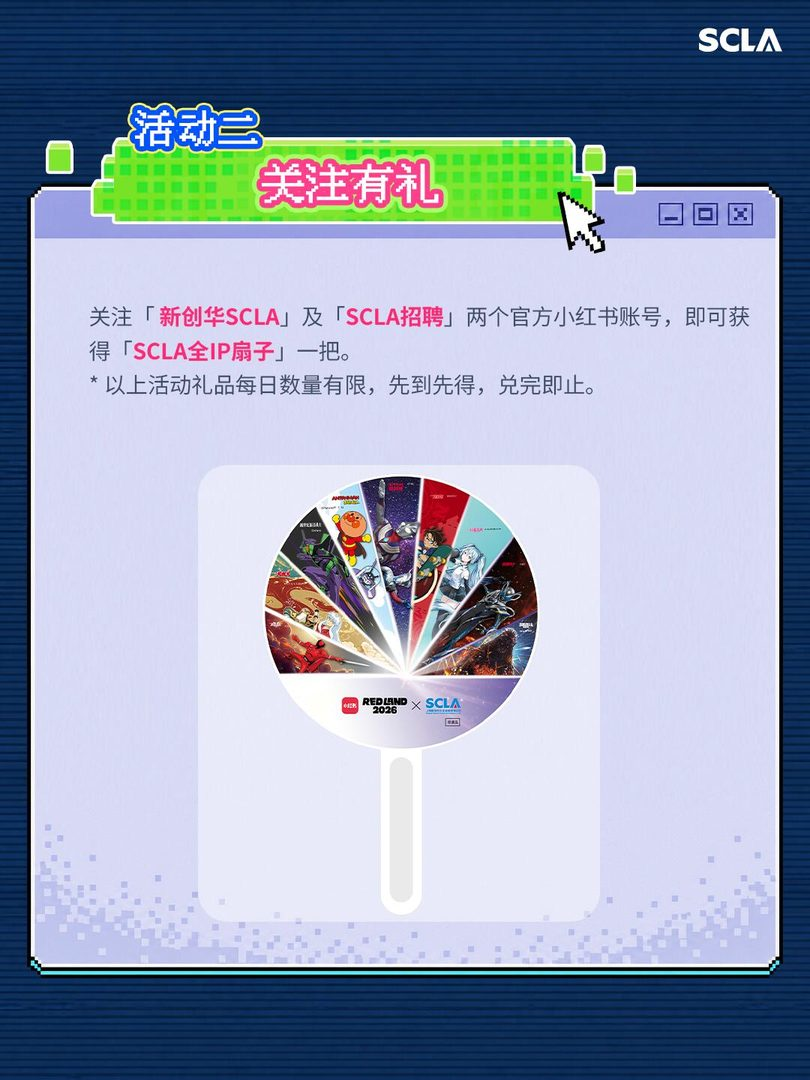
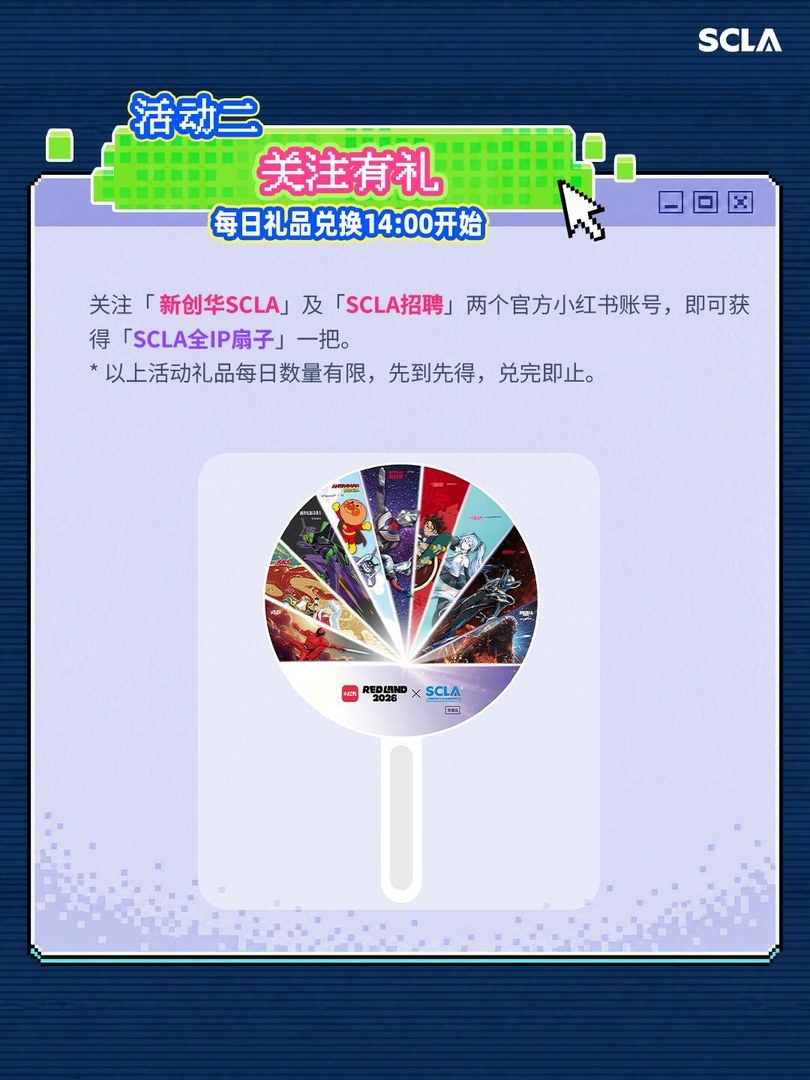
data: 全量复核已收录来源（70 条笔记 + 17 个 ditto 页），同步 7 处官方改动；修两处渲染成 JSON 的奖励；重抠 B09 两枚徽章
复核结果（临时脚本跑完已删，方法记在 docs 13.19）：
- 官方场馆平面图换了 fileId，逐像素比对内容一致，但新版只有 3460×1406（原 14412×5854）。
  本地高清切片与展位热区继续沿用旧版，不按新 fileId 重抓；变更记进 note.json.fileIdHistory
- A24 SCLA 家族 8 条同步换图：活动一 / 活动二都加了「每日礼品兑换 14:00 开始」，
  PIN 更名「小红书PIN徽章（存档碎片）」。重下 02/03.jpg，boothDetails 与 pins.js 同步
- A17c 命运扳机换图：05 号 COSER 角色名 狼人 → 獠隐（五天的 schedule 都改了）
- B15 逆水寒标题改「【已开奖】」，正文追加中奖名单（内容无变化，只改 source.title）
- 宝可梦专题页「2 活动一览」9/15 内容上线（1 → 39 张）、「3 夜场惊喜」9/16 更新（1 → 7 张）：
  新增拍拍挑战、满电直播中、官方旗舰店「水波相伴」、伊布大转盘规则四项并入 B02；
  长图存 list-00～03 / list-passport / list-peiyi / night-01
- 其余 63 条笔记、主会场页（仍是 9/9 17:31）、阅文 hub 与 6 子页、猛兽派对、独立游戏页均无变化

顺带修的：
- B09「问答互动」与 C17「集齐 3 枚印章兑换」的任务级 rewards 里混了对象，页面直接吐出
  一串 JSON；改成纯字符串（PIN 预览本来就挂顶层 rewards）。CLAUDE.md 补了这条口径
- 奖励行挂多枚 PIN 时标签显示「PIN ×2」，否则看不出灯箱里还有第二张
- B09 两枚徽章缩略图重抠：原框把日场款底边、夜场款左半边都切残了

diff --git a/src/data/boothDetails.js b/src/data/boothDetails.js
@@ -30,7 +30,7 @@ const pokemon = {
   notes: ['更多活动信息即将发布，敬请期待', '图片系设计效果图，仅供参考，具体请以实物为准', '现场活动信息可能会根据当天实际情况进行调整（见面会 / 巡游 / 舞台表演，9/13）', '主会场三项 DIY 均为免费现场体验，只提供固定款式材料包，每人每次限领 1 份，需在现场完成制作后方可离场；图片仅示意，实际效果以现场自行设计为准（9/12）'],
   moreSources: [
     { title: 'RED LAND2026宝可梦卡牌体验营即将开启！', url: 'https://xhslink.cn/o/15EiQMofcoq', noteId: '6aa2a25d0000000026020f51', author: 'Pokemon宝可梦', publishedAt: '2026-09-11' },
-    { title: '江畔乐游 宝可梦嘉年华！（官方专题页 · 活动好礼 / 活动一览 / 夜场惊喜 / 卡牌体验 / 主题快闪）', url: 'https://xhslink.com/m/8KSTEt4IXBa', noteId: '8b6481cf722741b59bd6dd25fd17d97a', author: 'RED LAND 官方', publishedAt: '2026-09-14' },
+    { title: '江畔乐游 宝可梦嘉年华！（官方专题页 · 活动好礼 / 活动一览 / 夜场惊喜 / 卡牌体验 / 主题快闪；「活动一览」9/15 内容上线、「夜场惊喜」9/16 更新）', url: 'https://xhslink.com/m/8KSTEt4IXBa', noteId: '8b6481cf722741b59bd6dd25fd17d97a', author: 'RED LAND 官方', publishedAt: '2026-09-16' },
     { title: '活力投篮🏀 谁是球场MVP？！', url: 'https://xhslink.cn/o/2WZlpoGPXTp', noteId: '6aa3d88b000000002802b26e', author: 'Pokemon宝可梦', publishedAt: '2026-09-15' },
     { title: '江畔乐游宝可梦嘉年华 主会场活动信息', url: 'https://xhslink.cn/o/2hUNxogcGQ5', noteId: '6aa3d27a0000000028029d03', author: 'Pokemon宝可梦', publishedAt: '2026-09-12' },
     { title: '江畔乐游宝可梦嘉年华 宝可梦见面会来啦！', url: 'https://xhslink.cn/o/12wrkaeZLvX', noteId: '6aa3ba1b000000002b0013be', author: 'Pokemon宝可梦', publishedAt: '2026-09-13' },
@@ -39,7 +39,13 @@ const pokemon = {
   activities: [
     {
       title: '「皮」「伊」欢聚站（B-02）',
-      desc: '拍照打卡点，站内设集章处，可领护照、盖伊布印章、领冰箱贴。',
+      desc: '「精灵球」转转转，解锁伊布「们」的贴纸！巨型皮卡丘与伊布坐镇的拍照打卡点，站内设集章处，可领护照、盖伊布印章、领冰箱贴。',
+      items: [
+        {
+          title: '伊布「们」大转盘',
+          desc: '现场排队参与伊布「们」大转盘活动，根据转盘结果可获得对应款式的贴纸 1 张。贴纸共 9 款，每款 200 张，每人每次限领 1 张，先到先得，赠完即止。若转动结果的对应款式贴纸已赠完，则可以重新转动 1 次。',
+        },
+      ],
     },
     {
       title: '江畔乐游 宝可梦嘉年华 主会场（B-17）',
@@ -63,6 +69,16 @@ const pokemon = {
           desc: '现场提供宝可梦转转风车材料包，参考制作步骤说明，完成拼装。日场、夜场共 5 款，每款每日各 900 份，赠完即止，先到先得。日场款发放 12:30 – 17:30（小磁怪 / 正电拍拍 & 负电拍拍 / 皮卡丘），夜场款发放 17:30 – 21:00（耿鬼 / 谜拟丘，夜光效果请以实物为准）。',
         },
       ],
+    },
+    {
+      title: '拍拍挑战 · 欢乐羽毛球挥拍挑战（B-17 主会场）',
+      desc: '欢乐羽毛球挥拍挑战，等你来「拍拍」！正电拍拍与负电拍拍气模坐镇，快来同框打卡。',
+      items: [
+        { title: '参与挑战即可获得', desc: '宝可梦江畔乐游主题纸帽 · 正电拍拍 & 负电拍拍款。每日 5000 个，赠完即止，先到先得。' },
+        { title: '挑战成功即可获得', desc: '宝可梦江畔乐游主题贴纸 · 正电拍拍 & 负电拍拍款。每日 4000 张，赠完即止，先到先得。' },
+      ],
+      note: '更多游玩规则请参考活动现场公告；参与本项目可盖小磁怪印章（乐游护照任务 2），每日 17:30 后还可加盖谜拟丘印章（任务 6）',
+      rewards: ['宝可梦江畔乐游主题纸帽 · 正电拍拍 & 负电拍拍款', '宝可梦江畔乐游主题贴纸 · 正电拍拍 & 负电拍拍款'],
     },
     {
       title: '活力投篮 · 谁是球场 MVP？！（B-17 主会场）',
@@ -120,6 +136,22 @@ const pokemon = {
       desc:
         '发现宝可梦商品的奇趣之处。快闪店以小磁怪 / 三合一磁怪为主视觉，Pokémon ROAD TRIP 系列第三弹及更多商品请期待。在店内任意购买商品，按消费时间可获得「宝可梦江畔乐游」气球 1 个：皮卡丘款 12:30 ~ 17:30（每日 700 个）、谜拟丘款 17:30 ~ 21:00（每日 300 个），赠完即止，先到先得。',
       note: '展位号官方未公布，待补充；图片系设计效果图，具体以实物为准',
+    },
+    {
+      title: '满电直播中 · 宝可梦卡牌官方直播间（B-17 主会场）',
+      desc: '宝可梦卡牌官方主播正在满电直播中！来现场直播间和官方主播欢乐互动吧——既能和官方主播一起玩游戏，也能自由打卡拍照。如果你有志成为官方主播，还可以现场投递简历、接受面试！关注宝可梦官方社媒账号，即可领取「满电直播中」主题透卡。',
+      note: '主题透卡共 2 款（皮卡丘 / 谜拟丘），每款每日各 1000 张，每人每日限领 1 张、款式随机；更多游玩规则请参考活动现场公告',
+      rewards: ['「满电直播中」主题透卡 ×1（2 款随机）'],
+    },
+    {
+      title: '宝可梦官方旗舰店打卡点 ·「水波相伴」（B-17 主会场）',
+      desc: '全新宝可梦「水波相伴」系列商品提前亮相！10 月 2 日 – 10 月 6 日，现场参与游戏或在官方直播间下单，有机会获得水波相伴主题赠品。',
+      items: [
+        { title: '水波相伴主题水敏卡', desc: '在小红书宝可梦官方直播间下单满足条件即可获得，共 6000 张，先到先得，赠完即止。' },
+        { title: '水波相伴主题手环', desc: '现场参与游戏即可获得，共 2 款（波加曼 / 水水獭），每日每款 600 份，先到先得，赠完即止。' },
+      ],
+      note: '更多游玩规则请参考活动现场公告及官方后续发布信息',
+      rewards: ['水波相伴主题水敏卡', '水波相伴主题手环（2 款）'],
     },
     {
       title: '宝可梦卡牌体验营（C-16）',
@@ -300,6 +332,12 @@ const pokemon = {
     { name: '集装可爱 · 集装箱装饰材料包', how: 'B-17 主会场 DIY 区免费领取；日场款 12:30–17:30 / 夜场款 17:30–21:00，每款每日各 800 份，需自带宝可梦官方毛绒挂件' },
     { name: '彩影箱灯材料包', how: 'B-17 主会场 DIY 区免费领取；每日 3000 份，夜间可开灯发光' },
     { name: '转转风车材料包', how: 'B-17 主会场 DIY 区免费领取；日场 3 款 12:30–17:30 / 夜场 2 款 17:30–21:00，每款每日各 900 份' },
+    { name: '宝可梦江畔乐游主题纸帽 · 正电拍拍 & 负电拍拍款', how: 'B-17 拍拍挑战，参与挑战即得；每日 5000 个' },
+    { name: '宝可梦江畔乐游主题贴纸 · 正电拍拍 & 负电拍拍款', how: 'B-17 拍拍挑战，挑战成功即得；每日 4000 张' },
+    { name: '伊布「们」大转盘贴纸（9 款）', how: 'B-02「皮」「伊」欢聚站排队转大转盘，按结果领对应款式；每款 200 张，每人每次限领 1 张，转到已赠完的款式可重转 1 次' },
+    { name: '「满电直播中」主题透卡（2 款随机）', how: 'B-17 宝可梦卡牌官方直播间，关注宝可梦官方社媒账号领取；每款每日 1000 张，每人每日限领 1 张' },
+    { name: '水波相伴主题水敏卡', how: '在小红书宝可梦官方直播间下单满足条件即可获得；共 6000 张' },
+    { name: '水波相伴主题手环（2 款）', how: 'B-17 宝可梦官方旗舰店打卡点，现场参与游戏即得；每日每款 600 份' },
   ],
   footnote: '所有周边先到先得，赠完即止；图片系设计效果图，具体以实物为准。',
   images: [
@@ -316,6 +354,13 @@ const pokemon = {
     { src: 'img/booths/B02/diy-01.jpg', caption: '集装可爱 · 日场 / 夜场 2 款与注意事项' },
     { src: 'img/booths/B02/diy-02.jpg', caption: '彩影箱灯 · 每日 3000 份，夜间可发光' },
     { src: 'img/booths/B02/diy-03.jpg', caption: '转转风车 · 日场 3 款 / 夜场 2 款' },
+    { src: 'img/booths/B02/list-00.jpg', caption: '官方专题页「活动一览」① 嘉年华主会场 / 宝可梦见面会 / 拍拍挑战 / 活力投篮（9/15 上线）' },
+    { src: 'img/booths/B02/list-01.jpg', caption: '官方专题页「活动一览」② 蹭蹭脸颊 / 手工 DIY 三项（集装可爱 · 转转风车 · 彩影箱灯）' },
+    { src: 'img/booths/B02/list-02.jpg', caption: '官方专题页「活动一览」③ 满电直播中 / 官方旗舰店「水波相伴」/ 绘梦工坊 / 纸间奇遇 / 主题快闪' },
+    { src: 'img/booths/B02/list-03.jpg', caption: '官方专题页「活动一览」④ 主题快闪气球与贴纸数量' },
+    { src: 'img/booths/B02/list-passport.jpg', caption: '官方专题页「活动好礼」· 江畔乐游护照集章全流程（Step1–3）' },
+    { src: 'img/booths/B02/list-peiyi.jpg', caption: '官方专题页 ·「皮」「伊」欢聚站与伊布「们」大转盘（9 款贴纸）' },
+    { src: 'img/booths/B02/night-01.jpg', caption: '官方专题页「夜场惊喜」· 夜光周边一览（9/16 更新）' },
     { src: 'img/booths/B02/meet-00.jpg', caption: '宝可梦见面会（Pokemon宝可梦 9/13）' },
     { src: 'img/booths/B02/meet-01.jpg', caption: '宝可梦见面会 · 日场 / 夜场时间与亮相宝可梦' },
     { src: 'img/booths/B02/meet-02.jpg', caption: '宝可梦特别见面会 · 路卡利欧' },
@@ -1051,15 +1096,16 @@ const scla = {
         },
         { no: 'STEP 4', desc: '前往礼品兑换处找 STAFF 核验，获取当日的抽奖机会及礼品。' },
       ],
-      note: '各 IP 任务来自其官方号 9/10–9/11 分攻略，均注明「现场也会有随机惊喜掉落」。',
+      note: '每日礼品兑换 14:00 开始（官方 9/19 换图新增）。各 IP 任务来自其官方号 9/10–9/11 分攻略，均注明「现场也会有随机惊喜掉落」。',
       rewards: [
         '完成 1 条连线 = 1 次抽奖机会，可获得中奖 IP 对应的「亚克力冰箱贴」（9 款对应 9 大 IP），每人每日最多可拥有 3 次抽奖机会',
-        '完成 2 条及以上数量连线，即可获得「小红书 PIN 徽章」，每人每日限领 1 枚',
+        '完成 2 条及以上数量连线，即可获得「小红书 PIN 徽章（存档碎片）」，每人每日限领 1 枚',
       ],
     },
     {
       title: '活动二 · 关注有礼',
       desc: '关注「新创华SCLA」及「SCLA招聘」两个官方小红书账号，即可获得「SCLA 全 IP 扇子」一把。',
+      note: '每日礼品兑换 14:00 开始；以上活动礼品每日数量有限，先到先得，兑完即止（官方 9/19 换图新增时间）。',
       follow: [
         { uid: '5c73e184000000001000fa72', name: '新创华SCLA' },
         { uid: '69cf57f60000000033020c71', name: 'SCLA招聘' },
@@ -1068,7 +1114,7 @@ const scla = {
     },
   ],
   rewards: [
-    { name: '小红书 PIN 徽章（2 款）', how: 'BINGO 完成 2 条及以上连线；每人每日限领 1 枚。橙色软盘造型，一款集合假面骑士 / 奥特曼 / 哥斯拉 / 超级战队，另一款集合犬夜叉 / 初音未来 / EVA / 面包超人 / 柯南', pin: true, pinIds: ['A24-pin-1', 'A24-pin-2'] },
+    { name: '小红书 PIN 徽章（存档碎片，2 款）', how: 'BINGO 完成 2 条及以上连线；每日礼品兑换 14:00 开始，每人每日限领 1 枚。橙色软盘造型，一款集合假面骑士 / 奥特曼 / 哥斯拉 / 超级战队，另一款集合犬夜叉 / 初音未来 / EVA / 面包超人 / 柯南', pin: true, pinIds: ['A24-pin-1', 'A24-pin-2'] },
     { name: '亚克力冰箱贴（9 款，按中奖 IP 随机）', how: 'BINGO 每完成 1 条连线抽奖 1 次，100% 中奖；每人每日最多 3 次' },
     { name: 'SCLA 全 IP 扇子', how: '关注「新创华SCLA」与「SCLA招聘」两个官方账号后领取' },
     { name: '限量神秘礼品（名侦探柯南）', how: '在柯南展区找到藏在书房里的神秘数字' },
@@ -1217,10 +1263,7 @@ const reverse1999 = {
       title: '问答互动',
       desc: '在展会完成互动问答后即可领取《重返未来：1999》徽章 ×1，并参与现场抽奖活动。徽章分为日场和夜场两款，日场款领取时间为每日 12:30 – 17:30，夜场款领取时间为每日 17:30 – 21:30。',
       note: '奖品每日限量 1200 份，其中日场款 800 份、夜场款 400 份；先到先得，领完即止。部分抽奖奖品由小米游戏中心提供',
-      rewards: [
-        { name: '《重返未来：1999》徽章 ×1（日场款 / 夜场款）', pin: true, pinIds: ['B09-1', 'B09-2'] },
-        '现场抽奖资格',
-      ],
+      rewards: ['《重返未来：1999》徽章 ×1（日场款 / 夜场款）', '现场抽奖资格'],
     },
   ],
   rewards: [
@@ -1317,7 +1360,7 @@ const opcg = {
       desc: 'SNS 打卡、策牌破局、互动游戏各盖 1 枚印章，集齐 3 枚后扫码填写调查问卷并下载万代卡牌 APP，即可兑换现场奖品与店铺奖品。',
       rewards: [
         'RED LAND 2026「奈美」帆布袋 ×1 个',
-        { name: 'RED LAND 2026 限定徽章 ×1 枚', pin: true, pinId: 'C17-pin' },
+        'RED LAND 2026 限定徽章 ×1 枚',
         '到店兑换店铺奖品 ×1 份（限量 200 份）',
       ],
     },
@@ -2151,7 +2194,7 @@ const fateTrigger = {
             '名濑 · 汐尔sama',
             '绮罗 · 二二二月',
             '明迪 · 企有小鹅',
-            '狼人 · 是己不是已',
+            '獠隐 · 是己不是已',
           ],
         },
         {
@@ -2161,7 +2204,7 @@ const fateTrigger = {
             '名濑 · 汐尔sama',
             '绮罗 · 二二二月',
             '明迪 · 企有小鹅',
-            '狼人 · 是己不是已',
+            '獠隐 · 是己不是已',
           ],
         },
         {
@@ -2169,7 +2212,7 @@ const fateTrigger = {
           guests: [
             '赫希黎 / 绮罗 / 名濑 · 蕾诺诺（头号花车）',
             '明迪 · 企有小鹅',
-            '狼人 · 是己不是已',
+            '獠隐 · 是己不是已',
             '赫希黎 · 幺鸡',
             '名濑 · 狩司',
           ],
@@ -2179,7 +2222,7 @@ const fateTrigger = {
           guests: [
             '赫希黎 / 绮罗 / 名濑 · 蕾诺诺（头号花车）',
             '明迪 · 企有小鹅',
-            '狼人 · 是己不是已',
+            '獠隐 · 是己不是已',
             '赫希黎 · 幺鸡',
             '绮罗 · 小猫',
           ],
@@ -2189,7 +2232,7 @@ const fateTrigger = {
           guests: [
             '赫希黎 / 绮罗 / 名濑 · 蕾诺诺（头号花车）',
             '明迪 · 企有小鹅',
-            '狼人 · 是己不是已',
+            '獠隐 · 是己不是已',
             '名濑 · 狩司',
             '绮罗 · 小猫',
           ],
@@ -2238,11 +2281,11 @@ const fateTrigger = {
 }
 
 // 逆水寒（B-15，黄金海岸线）：星梦乐园 —— 互动打卡 / 日间寻礼 / 夜场互动 / 侠友同游 / 星梦舞会 / 花车巡礼
-// 笔记标题带「内含门票」：评论区抽 REDLAND 门票与 10/2 - 10/29 线上投稿征集均属票务 / 线上活动，未收录
+// 原标题带「内含门票」，官方 9/19 抽奖结束后改成「【已开奖】…」并在正文追加中奖名单；评论区抽 REDLAND 门票与 10/2 - 10/29 线上投稿征集均属票务 / 线上活动，未收录
 // 原图 11 张，去掉「线上征集」与「登岛指引」（首页交通要点已有），取舍见 note.json
 const nishuihanBooth = {
   source: {
-    title: '【内含门票】滴滴，您有一份登岛邀请请查收（仅收录 RED LAND 参展情报部分）',
+    title: '【已开奖】滴滴，您有一份登岛邀请请查收（仅收录 RED LAND 参展情报部分）',
     url: 'https://xhslink.cn/o/32b4sTIG4RJ',
     noteId: '6aa8e678000000000d027c19',
     author: '逆水寒',

diff --git a/src/data/pins.js b/src/data/pins.js
@@ -26,8 +26,8 @@ export const pins = [
   { id: 'A38-pin', no: 'A38', type: 'region', zone: 'A', name: '剑网3 展台专属 PIN 卡（黄鸡大笑）', booth: 'A38', how: '展台【江湖笔记】留言寄语，每日限量先到先得', thumb: 'img/pins/A38.jpg', image: 'img/booths/A38/02.jpg' },
   { id: 'A34-pin-2', no: 'A34-2', type: 'region', zone: 'A', name: '我的世界联名徽章 · LOGO 款', booth: 'A34', how: '现场互动打卡', thumb: 'img/pins/A34-2.jpg', image: 'img/booths/A34/01.jpg' },
   { id: 'A17c-pin', no: 'A17c', type: 'region', zone: 'A', name: '命运扳机「存档碎片」PIN 套装', booth: 'A17c', how: '预约游戏并关注命运扳机小红书账号；套装含「外包装 + 三 IP 合一内卡」成品一件，另附《命运扳机》单款内卡', thumb: 'img/pins/A17c.jpg', image: 'img/booths/A17c/02.jpg' },
-  { id: 'A24-pin-1', no: 'A24-1', type: 'region', zone: 'A', name: 'SCLA 小红书 PIN 徽章 · 假面骑士 / 奥特曼 / 哥斯拉 / 超级战队款', booth: 'A24', how: 'BINGO 完成 2 条及以上连线，每人每日限领 1 枚', thumb: 'img/pins/A24-1.jpg', image: 'img/booths/A24/02.jpg' },
-  { id: 'A24-pin-2', no: 'A24-2', type: 'region', zone: 'A', name: 'SCLA 小红书 PIN 徽章 · 犬夜叉 / 初音未来 / EVA / 面包超人 / 柯南款', booth: 'A24', how: 'BINGO 完成 2 条及以上连线，每人每日限领 1 枚', thumb: 'img/pins/A24-2.jpg', image: 'img/booths/A24/02.jpg' },
+  { id: 'A24-pin-1', no: 'A24-1', type: 'region', zone: 'A', name: 'SCLA 小红书 PIN 徽章（存档碎片）· 假面骑士 / 奥特曼 / 哥斯拉 / 超级战队款', booth: 'A24', how: 'BINGO 完成 2 条及以上连线；每日礼品兑换 14:00 开始，每人每日限领 1 枚', thumb: 'img/pins/A24-1.jpg', image: 'img/booths/A24/02.jpg' },
+  { id: 'A24-pin-2', no: 'A24-2', type: 'region', zone: 'A', name: 'SCLA 小红书 PIN 徽章（存档碎片）· 犬夜叉 / 初音未来 / EVA / 面包超人 / 柯南款', booth: 'A24', how: 'BINGO 完成 2 条及以上连线；每日礼品兑换 14:00 开始，每人每日限领 1 枚', thumb: 'img/pins/A24-2.jpg', image: 'img/booths/A24/02.jpg' },
   { id: 'B01-pin', no: 'B01', type: 'region', zone: 'B', name: '蛋仔派对 小红书 PIN（样式待公布）', booth: 'B01', how: 'Step1 完成原胚生产 / 表情写入 / 外观装配三个车间认证，与基础周边一同发放（官方 9/15 改版，原先挂在拍照发帖上）', thumb: null, image: 'img/booths/B01/16.jpg' },
   { id: 'B04b-1', no: 'B04b-1', type: 'region', zone: 'B', name: '暴雪游戏 REDLAND 2026「存档碎片」· RED LAND × BLIZZARD × 網易 款', booth: 'B04b', how: '集齐全部展位印章后在暴雪游戏展台领取', thumb: 'img/pins/B04b-1.jpg', image: 'img/booths/B04b/guide-04.jpg' },
   { id: 'B04b-2', no: 'B04b-2', type: 'region', zone: 'B', name: '暴雪游戏 REDLAND 2026「存档碎片」· BLIZZARD 蓝面款', booth: 'B04b', how: '集齐全部展位印章后在暴雪游戏展台领取', thumb: 'img/pins/B04b-2.jpg', image: 'img/booths/B04b/guide-04.jpg' },

diff --git a/src/data/parade.js b/src/data/parade.js
@@ -172,7 +172,7 @@ export const themeFloats = [
       { day: 5, label: '闪耀新世界，花车时尚大秀开幕 · 不落幕的圆舞曲', chars: ['梅莉', '小溪Liz'] },
     ],
     // 嘉宾名单的出处（进页尾来源卡）
-    extraSource: { title: '【内含门票】滴滴，您有一份登岛邀请请查收（花车巡游嘉宾按日名单）', url: 'https://xhslink.cn/o/32b4sTIG4RJ', noteId: '6aa8e678000000000d027c19', author: '逆水寒', publishedAt: '2026-09-15' },
+    extraSource: { title: '【已开奖】滴滴，您有一份登岛邀请请查收（花车巡游嘉宾按日名单）', url: 'https://xhslink.cn/o/32b4sTIG4RJ', noteId: '6aa8e678000000000d027c19', author: '逆水寒', publishedAt: '2026-09-15' },
     source: floatSrc('前方高能！逆水寒专属花车准备发车！', 'https://xhslink.cn/o/W41HoYtgoG', '6a9b1099000000002803bdb0'),
   },
   {

diff --git a/src/views/BoothDetailPage.vue b/src/views/BoothDetailPage.vue
@@ -207,7 +207,7 @@
           <div v-for="r in detail.rewards" :key="r.name" class="row between small" style="padding:6px 0;border-top:1.5px dashed #eadfc4">
             <span>
               <b>{{ r.name }}</b>
-              <button v-if="r.pin && pinsFor(r).length" class="tag text btn" style="font-size:10px;padding:1px 5px;margin-left:4px" @click="showPins(r)">PIN</button>
+              <button v-if="r.pin && pinsFor(r).length" class="tag text btn" style="font-size:10px;padding:1px 5px;margin-left:4px" @click="showPins(r)">PIN<template v-if="pinsFor(r).length > 1"> ×{{ pinsFor(r).length }}</template></button>
               <span v-else-if="r.pin" class="tag text" style="font-size:10px;padding:1px 5px;margin-left:4px">PIN</span>
             </span>
             <span class="muted" style="text-align:right;flex:0 0 45%">{{ r.how }}</span>

diff --git a/scripts/crop-pins.py b/scripts/crop-pins.py
@@ -26,9 +26,10 @@ CROPS = {
     # id: (源图, (left, top, right, bottom))
     'A06': ('public/img/booths/A06/07.jpg', (555, 850, 665, 970), {'upscale': True}),
     'A09-1': ('public/img/booths/A09/01.jpg', (125, 730, 398, 1008)),
-    # B09 两枚徽章在图里只有 ~110px，且夜场款被日场款压住左半边，只能抠可见部分
-    'B09-1': ('public/img/booths/B09/05.jpg', (94, 381, 210, 492), {'fileId': 'spectrum/1040g34o3253i1j3m30b05obic3kgkjin8ofehvo', 'upscale': True}),
-    'B09-2': ('public/img/booths/B09/05.jpg', (182, 462, 290, 557), {'fileId': 'spectrum/1040g34o3253i1j3m30b05obic3kgkjin8ofehvo', 'upscale': True}),
+    # B09 两枚徽章在图里只有 ~110px：日场款右下角被夜场款压住、底边被「日场款」红标压住，只取到红标上沿；
+    # 夜场款左半边被日场款压住，左边会带一点日场款的边，底边贴着「夜场款」红标上沿（9/20 重抠，原框把两枚都切残了）
+    'B09-1': ('public/img/booths/B09/05.jpg', (98, 389, 208, 492), {'fileId': 'spectrum/1040g34o3253i1j3m30b05obic3kgkjin8ofehvo', 'upscale': True}),
+    'B09-2': ('public/img/booths/B09/05.jpg', (186, 457, 283, 561), {'fileId': 'spectrum/1040g34o3253i1j3m30b05obic3kgkjin8ofehvo', 'upscale': True}),
     'A09-2': ('public/img/booths/A09/01.jpg', (425, 730, 698, 1008)),
     'A24-1': ('public/img/booths/A24/02.jpg', (516, 608, 702, 792)),
     'A24-2': ('public/img/booths/A24/02.jpg', (516, 784, 702, 966)),

diff --git a/docs/REDLAND2026_信息汇总.md b/docs/REDLAND2026_信息汇总.md
@@ -677,7 +677,7 @@
   - **周边预告**：#01 参与展台互动并打卡分享，有机会抽奖获得——蚂蚁搬家袋、命运扳机 PIN 内小卡、角色香薰片、赫希黎吧唧、明迪扇子、绮罗钥匙扣、亚克力发光眼镜。#02 **预约游戏并关注命运扳机小红书账号**，即可获得「命运扳机 PIN 卡」。所有周边每日发放数量有限，先到先得，领完即止。
   - **PIN**：命运扳机「存档碎片」(PIN) 套装 —— **橙色软盘，实图已公布**，进 `pins.js` `A17c-pin`，缩略图 `img/pins/A17c.jpg`。套装含「外包装 + 三 IP 合一内卡」成品一件，另附《命运扳机》单款内卡；官方图示为单款内卡效果示意。
   - **现场 COSER（8 位）**：蕾诺诺（赫希黎 / 绮罗 / 名濑，**头号花车**）10/02–10/06；汐尔sama（名濑）10/02–10/03；二二二月（绮罗）10/02–10/03；企有小鹅（明迪）10/02–10/06；是己不是已（狼人）10/02–10/06；幺鸡（赫希黎）10/04–10/05；狩司（名濑）**10/04 与 10/06**（海报此处是斜杠不是箭头，不含 10/05）；小猫（绮罗）10/05–10/06。已按天整理为「角色 · Coser」写进 `stage.schedule`。蕾诺诺的三个角色与 `parade.js` 头号花车里命运扳机的 DAY1/2/5 赫希黎、DAY3 绮罗、DAY4 名濑完全对得上，parade 数据无需改动。
-- **B15 逆水寒**（官方账号「逆水寒」，9 月 15 日「【内含门票】滴滴，您有一份登岛邀请请查收」，noteId `6aa8e678000000000d027c19`，11 张图留 9）：黄金海岸线 B-15，展台主题「星梦乐园」。**日场 12:30–17:30 / 夜场 17:30–21:30**（具体各项活动开启时间以现场通知为准）。
+- **B15 逆水寒**（官方账号「逆水寒」，9 月 15 日「滴滴，您有一份登岛邀请请查收」（原标题带「【内含门票】」，9/19 抽奖结束后官方改成「【已开奖】」并追加中奖名单），noteId `6aa8e678000000000d027c19`，11 张图留 9）：黄金海岸线 B-15，展台主题「星梦乐园」。**日场 12:30–17:30 / 夜场 17:30–21:30**（具体各项活动开启时间以现场通知为准）。
   - **互动打卡**：①关注小红书 @逆水寒 并带话题 `#逆水寒海岛狂欢` `#REDLAND` 发布笔记 → 血河小狗光栅扇 ×1；②参与现场趣味互动 → **REDLAND PIN ×1**；③cos 逆水寒游戏内造型 → 血河小狗最强厨子版 ×1 + 游戏称号兑换卡 ×1（「妙手绘生花 · 逆水寒 2026 年度创作者专属称号」）。
   - **日间寻礼（12:30–19:00）**：验证玩家身份可获得额外周边（江湖有你打卡棒 / 血河小狗袋子 / 星梦券）和展台集章机会；**集齐两枚印章，凭【星梦券】前往【贪心夺金捞】处有意外惊喜**。
   - **夜场互动（19:00–21:10）**：参与舞台互动环节 → 周边大礼包 ×1；与 NPC 对暗号 → 荧光手环 ×1。以上周边数量有限，先到先得。
@@ -1230,6 +1230,45 @@ Danisa 与 SQUARE ENIX 两条没有展台玩法，按 §4 只补 `xhs`、不建 
 
 **⑤ 本批未收录**：忍者神龟 / 海绵宝宝 / 第五人格 / Danisa / MARD 五条笔记的门票抽奖部分（全部为票务）。
 
+### 13.19 已收录来源全量复核（2026-09-20，第二次）
+
+复核脚本（临时 `scripts/_recheck.mjs`，跑完即删）把 `boothDetails` / `parade` / `stage` / `rules` / `roaming` 里所有 `source` 与 `moreSources` 的小红书笔记汇总去重后逐条重抓，比对**标题 / 正文 / imageList 的 fileId 列表**；ditto 专题页另用 `_recheck_ditto.mjs` 比 `lastEditTime`。9/19–9/20 这两批刚收的 9 条跳过。**共复核 70 条笔记 + 5 个 ditto 主页 + 12 个 ditto 子页。**
+
+#### 有变化的（7 处，均已同步）
+
+| 来源 | 变化 | 处理 |
+|---|---|---|
+| **官方场馆平面图**（RED LAND 9/11） | 唯一一张图换了 fileId。逐像素比对（旧图降采样后与新图对齐）**内容完全一致**，差异只有重采样噪声；但新版只有 **3460×1406**，旧版是 **14412×5854** | **不重抓**。本地 `00-full.jpg` / `p2-full.jpg` 等切片继续用旧高清版，展位热区坐标不受影响。fileId 变更记进 `note.json.fileIdHistory` |
+| **A24 SCLA 家族 8 条**（新创华 / EVA / 假面骑士 / 奥特曼 / 柯南 / 哥斯拉 / 犬夜叉 / 面包超人） | 每条的两张活动图都换了 fileId。实际改动有两处：① 活动一、活动二的标题下都加了「**每日礼品兑换 14:00 开始**」；② PIN 正式名从「小红书PIN徽章」改成「**小红书PIN徽章（存档碎片）**」 | 重下 `A24/02.jpg`、`03.jpg`；`boothDetails` 的 note / rewards 与 `pins.js` 的 `A24-pin-1/2` 名称、how 同步 |
+| **A17c 命运扳机** | 标题加了「丨」；第 5 张图换版，**05 号 COSER 的角色名从「狼人」改成「獠隐」** | 重下 `A17c/04.jpg`；`stage.schedule` 五天的 `獠隐 · 是己不是已` 全部改过 |
+| **B15 逆水寒** | 标题从「【内含门票】…」改成「【已开奖】…」，正文追加 20 位中奖名单 | 只改 `source.title`（`boothDetails` 与 `parade.js` 的 `extraSource`），内容无变化 |
+| **宝可梦专题页 · 子页「2活动一览」** | **9/15 19:58 内容全量上线**（此前只有 KV，1 张图 → 39 张） | 见下 |
+| **宝可梦专题页 · 子页「3夜场惊喜」** | 9/16 11:33 更新（1 → 7 张），补了夜光周边一览；页尾仍写「夜场惊喜准备中……」 | 长图存 `night-01.jpg` |
+| 其余 63 条笔记 / 主会场页 / 阅文 hub 与 6 个子页 / 猛兽派对分会场 / 独立游戏聚合页 | 标题、正文、fileId 全部未变 | — |
+
+主会场页 `lastEditTime` 仍是 **2026-09-09 17:31:53**，与 13.15 的结论一致，没有再更新。
+
+#### 宝可梦「活动一览」上线后新增的内容（已并入 B02 / C16）
+
+主长图 19752px 高，按内容切成 4 段存 `list-00～03.jpg`，另存 `list-passport.jpg`（护照集章 Step1–3 全流程）与 `list-peiyi.jpg`（皮伊欢聚站）。**比对下来绝大部分与已收录的各条官方笔记一致**，真正新增的是 4 项：
+
+1. **拍拍挑战**（欢乐羽毛球挥拍挑战，B-17）：此前只在护照任务 2 里被提到、没有独立条目。参与得**正电拍拍 & 负电拍拍款纸帽，每日 5000 个**；挑战成功得同款**贴纸，每日 4000 张**。
+2. **满电直播中**（B-17）：宝可梦卡牌官方主播现场直播间，可与主播一起玩游戏、打卡拍照，**有志者可现场投递简历面试**；关注宝可梦官方社媒账号领「满电直播中」主题透卡，**共 2 款、每款每日 1000 张，每人每日限领 1 张、款式随机**。
+3. **宝可梦官方旗舰店打卡点 ·「水波相伴」**（B-17）：全新「水波相伴」系列商品提前亮相，10/2–10/6 现场参与游戏或官方直播间下单有机会得赠品 —— **水敏卡共 6000 张**（小红书官方直播间下单满足条件）、**主题手环 2 款、每日每款 600 份**（现场参与游戏即得）。
+4. **「皮」「伊」欢聚站 伊布「们」大转盘**（B-02）：原来只有一行「拍照打卡点」。完整规则 —— 现场排队转大转盘，按结果得对应款式贴纸 1 张；**贴纸共 9 款、每款 200 张，每人每次限领 1 张；转到的款式已赠完可重新转动 1 次**。
+
+护照 6 个任务、Step3 两款 PIN 与冰箱贴的数量 / 时段、DIY 三项、蹭蹭脸颊 / 绘梦工坊 / 纸间奇遇、主题快闪气球与贴纸数量，**与此前从各条官方笔记录入的完全一致**，无需改动。
+
+#### 顺带修的两处渲染问题（用户 9-20 指出）
+
+- **B09「问答互动」与 C17「集齐 3 枚印章兑换」的 `rewards` 里混进了对象**（`{ name, pin, pinIds }`），而任务级 `rewards` 是按字符串渲染的，页面上直接吐出一串 `{ "name": …, "pin": true, … }` 的「类代码文案」。两处都改成纯字符串（PIN 预览本来就挂在顶层 `rewards` 上，不受影响）。
+- 为防再犯，写了临时校验脚本 `scripts/_lint_data.mjs`（跑完即删）：逐项检查 `activities / tasks / items / stage.schedule` 里该是字符串的字段是不是字符串、顶层 `rewards` 是不是 `{name, how}`、`pinId` 在 `pins.js` 里找不找得到、`images` 引用的文件在不在。**跑完全库现在 0 条问题。**
+
+#### 另外两处（用户 9-20 指出）
+
+- **B09 两枚徽章缩略图重抠**：原框 `(94,381,210,492)` / `(182,462,290,557)` 把日场款底边和夜场款左半边都切残了。重新在原分辨率图上量过，改成 `(98,389,208,492)`（日场款，下沿贴着「日场款」红标上沿）与 `(186,457,283,561)`（夜场款，左边会带一点被压住的日场款边）。
+- **奖励行的 PIN 标签标出枚数**：一个奖励挂多枚 PIN 时（暴雪「存档碎片」两款）标签渲染成 `PIN ×2`，否则灯箱里有第二张也看不出来（灯箱本身一直有 `1/2` 翻页）。样式与原红标一致，不加图标。
+
 ### 13.5 2025 年场地参考图（网友整理，非官方；2026-09-10 增补）
 
 > 2026-09-11 官方平面图已公布（见 13.10）。用户决定**本节内容继续保留**：`rules.js venueMapRef` 与首页平面图卡下段的 2025 参考图不删，作为交通 / 地形参照，UI 仍标「2025 年」「非官方」。
@@ -1457,7 +1496,7 @@ IP 官方笔记（2026-09-09 增补，均为 xhslink 短链，App 内打开）
 - https://baike.baidu.com/item/redland/66306875 （抓取时被安全验证拦截，未取到正文）
 - https://xhslink.cn/o/5HPXnG6zyzO （代号：Lovania 09/15「REDLAND赠票！Lovania展台信息抢先看」，B-03，仅收参展情报）
 - https://xhslink.cn/o/1tuIc9cfwMI （命运扳机 09/15「命运扳机RED LAND 2026参展信息速报」，A-17）
-- https://xhslink.cn/o/32b4sTIG4RJ （逆水寒 09/15「【内含门票】滴滴，您有一份登岛邀请请查收」，B-15，仅收参展情报）
+- https://xhslink.cn/o/32b4sTIG4RJ （逆水寒 09/15「【已开奖】滴滴，您有一份登岛邀请请查收」，B-15，仅收参展情报）
 - https://xhslink.cn/o/6fb3vuIQh9Q （星布谷地 09/16「RED LAND2026 | 星布谷地惊喜活动预告」，A-06，仅收惊喜活动部分）
 - https://xhslink.cn/o/r7GZfdt4QX （Pokemon宝可梦 09/16「江畔乐游宝可梦嘉年华 更多活动信息」，B-17 蹭蹭脸颊 / 绘梦工坊 / 纸间奇遇）
 

diff --git a/CLAUDE.md b/CLAUDE.md
@@ -120,7 +120,7 @@ docs/                         总资料底稿：REDLAND2026_信息汇总.md + as
 - **分步内容进 `items`**：官方原文里出现 Step1 / STEP 1 / 01 / 任务 1 / 车间名｜项目 这类枚举时，活动或任务要拆成 `items`（每步一项，`no` 填官方序号），不能拼成一段。已改：B02 宝可梦、A21 三丽鸥排队 / 打包区、A25 Aniplex 入队 5 步、A24 SCLA BINGO STEP 1–4、A35 阅文各 IP 01–03、B01 蛋仔 Step1 / Step2 各车间。
 - **要求关注账号的任务**：在该活动 / 任务 / 分步项上加 `follow: [{ uid, name, via? }]`，详情页渲染成可点的 `📕 关注 XX` 标签，点了直接去小红书主页（用户 9/14）。没有 uid 的（超级战队、犬夜叉要求关注的是微信公众号）只写 `{ name, via: '微信公众号' }`，标签不可点、后面括注渠道。已加：宝可梦 3 处、Aniplex 入队、道诡异仙、SCLA 关注有礼（2 个号）与 SCLA 9 个 IP 的任务印章。
 - **带话题的任务**（`tags` 或 `post`）在任务 / 步骤最底部出现「📋 复制发帖文案 / 预览文案」（`PostCopyBtn`）：默认文案 = `今天在 RED LAND 2026 打卡了「IP 名」展台，现场氛围太好了！ + 话题`，复制即可发；有字数要求的任务在 `post` 里按官方信息写够字数的正文并给 `minChars`（预览处显示「正文约 N 字 · 要求不少于 M 字」，道诡异仙长评 ≥100 字），张数 / 内容要求写进 `note`（SCLA 须含 3 个 IP 展位图、道诡异仙 ≥3 张照片）。话题名以官方原文为准，不自行加话题。
-- **奖励里的 PIN 预览**：`rewards[].pin: true` 且能在 `pins.js` 找到对应项（`pinId` / `pinIds`，没有则取 `booth === 展位 id` 的全部 PIN）时，PIN 标签变成可点按钮（外观与原来的红色「PIN」标签完全一致，不加图标），灯箱显示缩略图 + `no · name`；`thumb: null` 的显示区域「?」软盘并注明待公布。新增 PIN 时同时给 reward 补 `pinId`。奖励 `name` 里不要再写「（PIN）」，标签已表示。
+- **奖励里的 PIN 预览**：`rewards[].pin: true` 且能在 `pins.js` 找到对应项（`pinId` / `pinIds`，没有则取 `booth === 展位 id` 的全部 PIN）时，PIN 标签变成可点按钮（外观与原来的红色「PIN」标签完全一致，不加图标），灯箱显示缩略图 + `no · name`；`thumb: null` 的显示区域「?」软盘并注明待公布。新增 PIN 时同时给 reward 补 `pinId`。奖励 `name` 里不要再写「（PIN）」，标签已表示。 **一个奖励挂多枚 PIN 时标签显示 `PIN ×N`**（用户 9/20：暴雪「存档碎片」两款，只写 PIN 看不出灯箱里还有第二张；灯箱本身一直有「1/2」翻页）。**任务 / 活动级的 `rewards` 只能是字符串**——它是按 `🎁 {{ r }}` 直接渲染的，塞对象会在页面上吐出一串 JSON（9/20 B09 问答互动、C17 集章兑换就是这么露的「类代码文案」）；PIN 预览挂在顶层 `rewards` 上就够了。
 - **展会信息胶囊**：日期、`hours`（有则红色）、`📍 展位号 {boothNo}` 三枚；`location` 去掉展位号后若还有区域信息（翻身时空港 / 黄金海岸线「宝藏码头」/ 上海复兴岛港口区）再单独一枚，只剩「上海 · 复兴岛」时不显示（页头已有）。不要再出现「📍 上海 · 复兴岛 A24」+「展位号 A24」这种重复。
 - **`detail.accounts`**（可选）：多 IP 共用展位时列出各 IP 官方账号 `[{ uid, name }]`，详情页在主账号按钮下方渲染一排「📕 IP 名」按钮（自动去掉与 `booths[].xhs` 重复的那个）。`booths[].xhs` 仍只放一个主账号（阅文取官方页里让用户关注的 @阅文好物）。
 - 链接看不出是哪个 IP 时，先用临时 id（如 `_tmp`）跑脚本，看 `author` 后把 `public/img/booths/_tmp` 改名为正式 id，并同步改 `note.json` 里的 `images` 路径。
@@ -249,9 +249,11 @@ docs/                         总资料底稿：REDLAND2026_信息汇总.md + as
 - [ ] C07 苏丹的游戏：展台预约规则待官方公告；哈比卜的厨房白天 / 夜晚两款大餐卡牌样式待公布
 - [ ] IP 官方账号：93 个展位行已关联 75 个（9/11 用户六批共 112 条链接；93 = 原 81 + 平面图新增 12 行），剩 14 行待补：A31 MOTORSLICE / SILLY POLLY BEAST、A37 动物城模拟生活新游（Partopia）、B19 CLUTCH、C04 独立游戏试玩区（无单一账号）、C13 GSE、A04 / A26 / B20（待解锁，无 IP）、A07 京东101HOME、B21a 华硕 a豆 / B21c 中国银联 / B21d 康师傅冰红茶、C19 高达汇战、C20 符文战场。9/20 补 4 个：A16 光夜展陈（用户确认与 A40 光与夜之恋是同一 IP，挂光与夜之恋官方号）、B21b Danisa 皇冠丹麦曲奇、C10 FINAL FANTASY RESONANCE（SQUARE ENIX ASIA 9/15 为登岛开的号，此前填过的「最终幻想14」不是同一游戏）、C11 MARD；自动查询已验证不可行（§9）。独立游戏 84 款已有账号 41 个（9/14 补 Rain 98；505 Games / Mecrew games / UBISOFT 一个账号对应多款）
 - [ ] C04 独立游戏：84 款名单已与官方 9/9 版一致；每款的小红书账号 uid / 攻略链接待补（`indie.js` 的 `xhs` / `url` 字段，官方页拿不到，需逐个找）
-- [ ] 官方主会场页 10 月前再 diff 一次（**9/15 已复核：与 9/9 版完全一致，未更新**；独立游戏聚合页、阅文 hub 同样无变化，见 docs 13.15）
-- [ ] 宝可梦官方专题页「2 活动一览」子页目前只有 KV、内容未上线（9/14 23:53 刚编辑过），「夜场惊喜」页尾写「夜场惊喜准备中……」；主题快闪的展位号未公布 —— 10 月前重抓
+- [ ] 官方主会场页 10 月前再 diff 一次（**9/20 二次复核：lastEditTime 仍是 9/9 17:31，未更新**；独立游戏聚合页、阅文 hub 与 6 个子页、猛兽派对分会场同样无变化，见 docs 13.19）
+- [x] 宝可梦官方专题页：**9/20 复核时「2 活动一览」子页已于 9/15 19:58 内容上线**（1 张 KV → 39 张），「3 夜场惊喜」9/16 更新（1 → 7 张）。新增的「拍拍挑战」「满电直播中」「官方旗舰店水波相伴」「伊布大转盘规则」已并入 B02，长图存 `list-00～03 / list-passport / list-peiyi / night-01`；其余内容与已收录的各条笔记一致
+- [ ] 宝可梦：「夜场惊喜」页尾仍写「夜场惊喜准备中……」，还有未公布内容；主题快闪的展位号仍未公布 —— 10 月前再抓一次
 - [x] 已收录来源全量复核（9/15）：54 份笔记里只有 B01 蛋仔派对（PIN 改挂 Step1 基础认证）与官方地图（去掉了「200M」标注，场馆本身没变）有改动，均已同步；见 docs 13.15
+- [x] 已收录来源全量复核（9/20 第二次，70 条笔记 + 5 个 ditto 主页 + 12 个子页）：只有 7 处变化 —— 官方平面图换了 fileId（**内容一致但分辨率从 14412×5854 降到 3460×1406，本地保留高清旧版、不要按新 fileId 重抓**）、A24 SCLA 家族 8 条同步换图（加「每日礼品兑换 14:00 开始」+ PIN 更名「小红书PIN徽章（存档碎片）」）、A17c 命运扳机换图（05 号 COSER 角色名 狼人 → 獠隐）、B15 逆水寒改标题「【已开奖】」、宝可梦专题页两个子页上线。均已同步；见 docs 13.19。复核脚本 `scripts/_recheck.mjs` / `_recheck_ditto.mjs` / `_lint_data.mjs` 都是临时脚本，跑完已删，下次照 docs 13.19 重写即可
 - [ ] A14b 赛博朋克2077 展台详情：CDPR 9/19 只发了巫师3 与边缘行者2 两条，2077 的展位一览文案「草薙、超梦、夜之城的好东西都到齐了。野狼酒吧见！」还没有对应笔记；巫师3 闭门演示场次与周边款式、边缘行者2 投票规则与见面会场次待公布
 - [ ] B04b 暴雪游戏：《海的女儿》音乐剧场次时间、每日幸运大奖的抽取方式、「集齐全部展位印章」的印章规则（是否等同官方 PIN 玩法）待公布；Coser 名单里没有 10/4 单独分组
 - [ ] 其余 IP 的展台详情（已收录 A06 星布谷地、A09 星穹铁道、A15 古剑、A21 三丽鸥、A22 火影忍者、A24 SCLA / 新创华、A25 Aniplex、A34 我的世界、A35 阅文、B01 蛋仔派对、B02 / C16 宝可梦、B04a 永劫无间、B04b 暴雪游戏、B16 宝藏码头、B18 火影忍者手游、B22 冰品补给点、A19 黑神话、A33 光·遇、A38 剑网3、A39 粒粒的小人国、B09 重返未来：1999、C05 女神异闻录4 Revival、C07 苏丹的游戏、C08 猛兽派对、C14 声探疑云、C17 航海王卡牌对战、A17c 命运扳机、B03 Lovania、B15 逆水寒、A28 代号：香、A11 绝区零、A14a 巫师3：狂猎、A14c 赛博朋克：边缘行者2、B07 第五人格、A29a 海绵宝宝、A29b 忍者神龟、C11 MARD）
